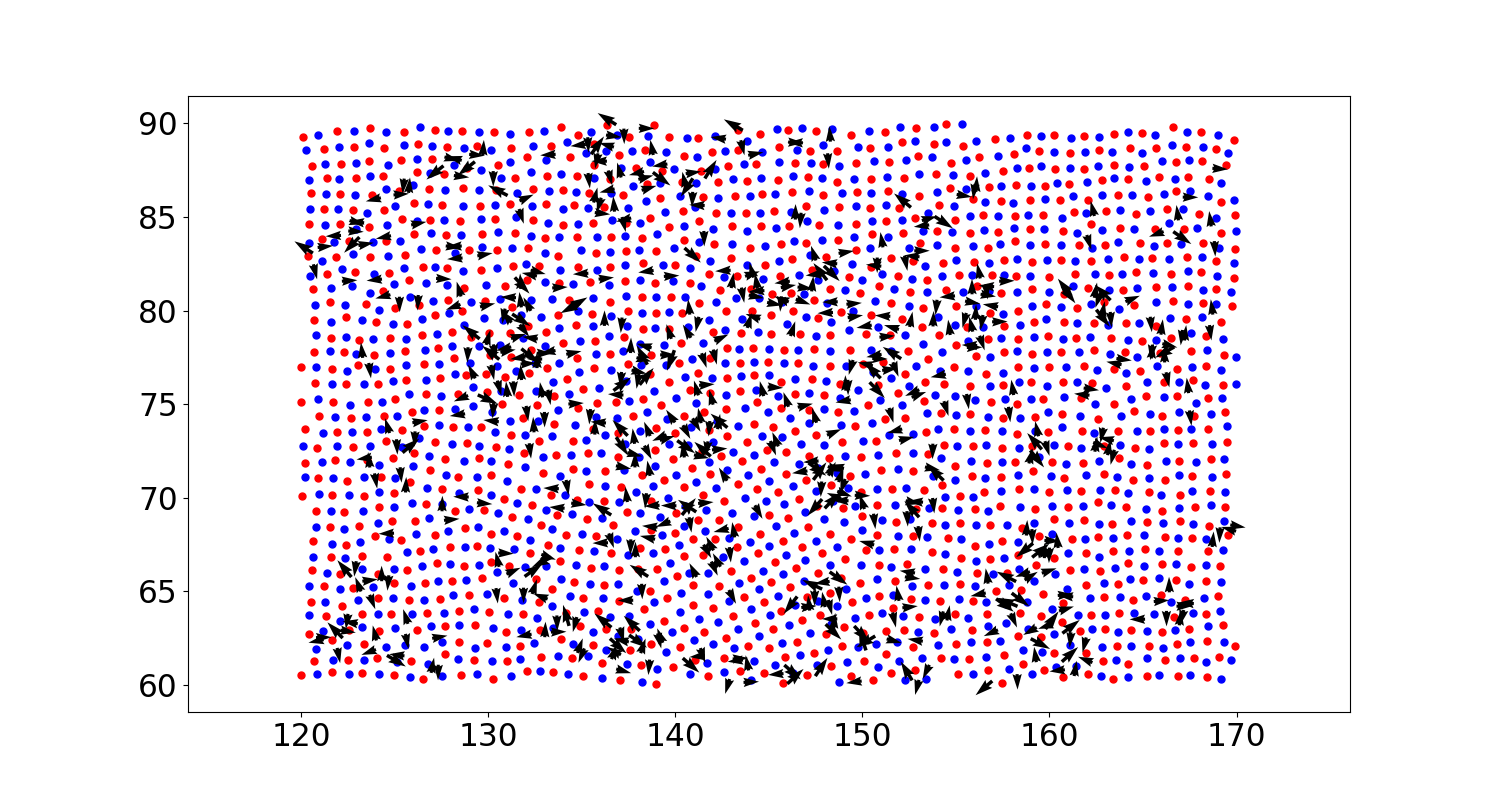
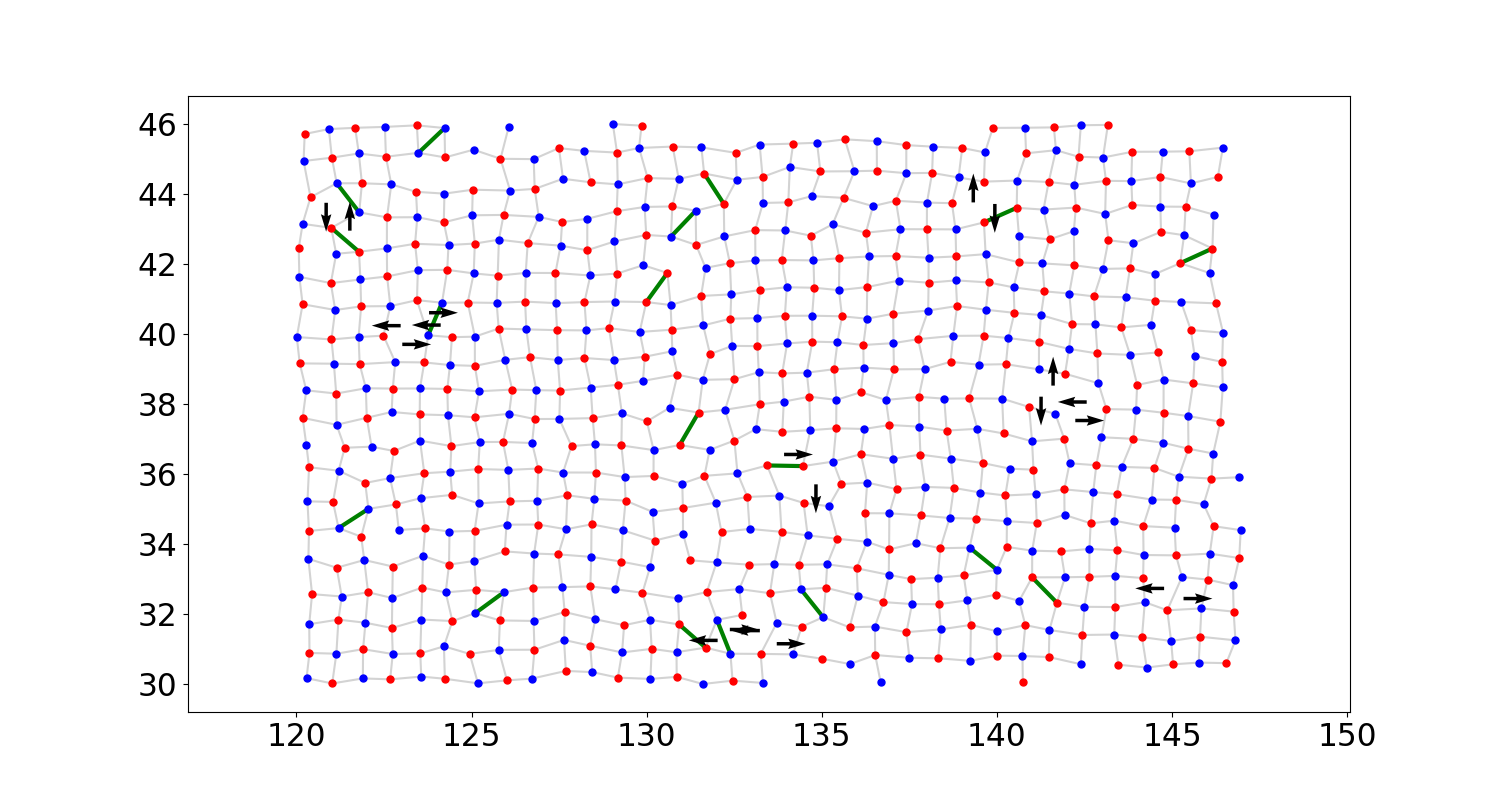
Added relevent options for plotting in rhoH=0.81 and searching for lines of frustration because it looked after cleaning that one of the clusters was maybe odd

diff --git a/create_all_graphs.py b/create_all_graphs.py
@@ -18,7 +18,7 @@ size = 30
 params = {'legend.fontsize': size * 0.75, 'figure.figsize': (10, 10), 'axes.labelsize': size, 'axes.titlesize': size,
           'xtick.labelsize': size * 0.75, 'ytick.labelsize': size * 0.75}
 plt.rcParams.update(params)
-colors_rho = {0.85: 'C0', 0.83: 'C1', 0.8: 'C2', 0.78: 'C3', 0.77: 'C4', 0.785: 'C5', 0.775: 'C6',
+colors_rho = {0.85: 'C0', 0.83: 'C1', 0.81: 'C2', 0.8: 'C2', 0.78: 'C3', 0.77: 'C4', 0.785: 'C5', 0.775: 'C6',
               0.75: 'C7'}
 
 
@@ -141,7 +141,7 @@ def plot_pos_and_orientation(rhos_pos, rhos_psi):
 
 
 def quiver_burger(rhoH, xlim, ylim, realization=None, bonds=False, frustrated_bonds=True, quiv=True,
-                  orientational_rad=None, *args, **kwargs):
+                  orientational_rad=None, plot_centers=True, quiv_surfix='', *args, **kwargs):
     plt.rcParams.update({'figure.figsize': (15, 8)})
     plt.figure()
     op_name = 'burger_vectors'
@@ -155,9 +155,10 @@ def quiver_burger(rhoH, xlim, ylim, realization=None, bonds=False, frustrated_bo
         realization = reals[0]
         file = files[0]
     else:
-        file = 'vec_' + str(realization) + '.txt'
+        file = 'vec_' + str(realization) + quiv_surfix + '.txt'
     spheres = np.loadtxt(join(sim, str(realization)))
-    if bonds:
+    any_bonds = bonds or frustrated_bonds
+    if any_bonds:
         op = Ising(sim_path=sim, k_nearest_neighbors=4, directed=False)
         op.update_centers(spheres, realization)
         spheres = op.spheres  # might reogranize order
@@ -168,7 +169,7 @@ def quiver_burger(rhoH, xlim, ylim, realization=None, bonds=False, frustrated_bo
         [(z_ > np.mean(z)) and xlim[0] < x_ < xlim[1] and ylim[0] < y_ < ylim[1] for (x_, y_, z_) in zip(x, y, z)])
     down = np.array(
         [(z_ <= np.mean(z)) and xlim[0] < x_ < xlim[1] and ylim[0] < y_ < ylim[1] for (x_, y_, z_) in zip(x, y, z)])
-    if bonds:
+    if any_bonds:
         op.initialize(random_initialization=False, J=-1)
         spins = op.z_spins
         for i in range(len(x)):
@@ -181,20 +182,23 @@ def quiver_burger(rhoH, xlim, ylim, realization=None, bonds=False, frustrated_bo
                     continue
                 if spins[i] * spins[j] > 0 and frustrated_bonds:
                     plt.plot(ex, ey, color='green', linewidth=3)
-                if spins[i] * spins[j] < 0:
+                if spins[i] * spins[j] < 0 and bonds:
                     plt.plot(ex, ey, color='lightgray')
-    # plt.plot(x[up], y[up], '.', color='orange', label='up', markersize=10)
-    plt.plot(x[up], y[up], '.r', label='up', markersize=10)
-    plt.plot(x[down], y[down], '.b', label='down', markersize=10)
-    plt.axis('equal')
-    # plt.legend()
+    if plot_centers:
+        # plt.plot(x[up], y[up], '.', color='orange', label='up', markersize=10)
+        plt.plot(x[up], y[up], '.r', label='up', markersize=10)
+        plt.plot(x[down], y[down], '.b', label='down', markersize=10)
     if quiv:
         burg = np.loadtxt(join(op_dir, file)) / 2
-        I_box = np.array(
-            [xlim[0] < x_ < xlim[1] and ylim[0] < y_ < ylim[1] for (x_, y_) in zip(burg[:, 0], burg[:, 1])])
-        burg = burg[I_box, :]
+        if len(xlim)>0 and len(ylim)>0:
+            I_box = np.array(
+                [xlim[0] < x_ < xlim[1] and ylim[0] < y_ < ylim[1] for (x_, y_) in zip(burg[:, 0], burg[:, 1])])
+            burg = burg[I_box, :]
         plt.quiver(burg[:, 0], burg[:, 1], burg[:, 2], burg[:, 3], angles='xy', scale_units='xy', scale=1,
                    label='Burger field', width=3e-3, zorder=7)  # headwidth=3)  # , headlength=10, headaxislength=6
+
+    plt.axis('equal')
+    # plt.legend()
     plt.savefig('graphs/burger_vectors')
     return
 
@@ -327,7 +331,7 @@ def quiver_cleaned_burgers(rhoH, realization=None, pair_cleans_iterations=1, cut
     if color_by_cluster:
         cluster_parity = plot_clustering(burg, algorithm=cluster_algorithm, rhoH=rhoH, **cluster_args)
         plt.figure()
-        plt.hist(cluster_parity, np.array(range(max(cluster_parity)+1)) + 0.5)
+        plt.hist(cluster_parity, np.array(range(max(cluster_parity) + 1)) + 0.5)
         plt.xlabel('$|\\vec{b}|^2$')
         plt.ylabel('Histogram for Burgers cluster sum')
         print(cluster_parity)
@@ -667,14 +671,14 @@ def coarse_grain_burgers(rhoH, xlim=[], ylim=[], realization=None, max_pair_clea
     cyc = lambda p1, p2: cyc_dist(p1, p2, [l_x / 2, l_y / 2])
     cluster_args['affinity'] = lambda X: pairwise_distances(X, metric=cyc)
     cluster_args['distance_threshold'] = distance_threshold
-    # for pair_cleans_iterations in range(max_pair_cleans_iterations + 1):
-    #     quiver_cleaned_burgers(rhoH, xlim=xlim, ylim=ylim, realization=realization,
-    #                            pair_cleans_iterations=pair_cleans_iterations, clean_by_cluster_flag=False)
+    for pair_cleans_iterations in range(max_pair_cleans_iterations + 1):
+        quiver_cleaned_burgers(rhoH, xlim=xlim, ylim=ylim, realization=realization,
+                               pair_cleans_iterations=pair_cleans_iterations, clean_by_cluster_flag=False)
     if clean_by_cluster_flag:
-        # burg = quiver_cleaned_burgers(rhoH, xlim=xlim, ylim=ylim, realization=realization,
-        #                               pair_cleans_iterations=max_pair_cleans_iterations, clean_by_cluster_flag=False)
-        # plot_clustering(burg, algorithm=cluster_algorithm, rhoH=rhoH, **cluster_args)
-        # plt.title('Clustering')
+        burg = quiver_cleaned_burgers(rhoH, xlim=xlim, ylim=ylim, realization=realization,
+                                      pair_cleans_iterations=max_pair_cleans_iterations, clean_by_cluster_flag=False)
+        plot_clustering(burg, algorithm=cluster_algorithm, rhoH=rhoH, **cluster_args)
+        plt.title('Clustering')
         quiver_cleaned_burgers(rhoH, xlim=xlim, ylim=ylim, realization=realization,
                                pair_cleans_iterations=max_pair_cleans_iterations,
                                clean_by_cluster_flag=True, cluster_algorithm=cluster_algorithm,
@@ -683,23 +687,24 @@ def coarse_grain_burgers(rhoH, xlim=[], ylim=[], realization=None, max_pair_clea
 
 
 if __name__ == "__main__":
-    # plot_pos_and_orientation([0.85, 0.83, 0.8], [0.8, 0.78, 0.77])
-    rhoH, realization = 0.81, 94363239  # 0.8, 64155333  # 92549977  #
-    # quiver_burger(rhoH, [85, 106.7], [126, 140.1], realization=realization, bonds=True, quiv=False)
-    # quiver_burger(rhoH, [120, 170], [60, 90], realization=realization, bonds=True, quiv=True)
-    xlim, ylim = [120, 170], [60, 90]
+    rhoH, realization = 0.81, 92347176  # 94363239  # 0.8, 64155333  # 92549977  #
+    # xlim, ylim = [120, 147], [30, 46]
+    xlim, ylim = [], []
+    quiver_burger(rhoH, xlim, ylim, realization=realization, bonds=False, quiv=True, plot_centers=False,
+                  quiv_surfix='_cluster-cleaned')
     # for rad in [None, 10, 5, 2, 0]:
     #     quiver_burger(rhoH, xlim, ylim, bonds=False, quiv=True, realization=realization, orientational_rad=rad)
-    coarse_grain_burgers(rhoH, realization=realization, distance_threshold=5, overwrite_cluster_clean=True,
-                         xlim=[0, 260], ylim=[0, 260], max_pair_cleans_iterations=0)
+    # coarse_grain_burgers(rhoH, realization=realization, distance_threshold=5, overwrite_cluster_clean=False,
+    #                      xlim=[0, 260], ylim=[0, 260])
 
-    # plot_ising([0.85, 0.8, 0.75], rhoH_anneal=0.8, plot_heat_capcity=True)
-
-    # plot_local_psi_hist([0.8, 0.785, 0.78, 0.775, 0.77])
-    # plot_magnetic_corr([0.85, 0.83, 0.8, 0.77])
-    # plot_bragg_peak(0.8)
-    # plot_annealing(0.8, real=45738368)
-    # plot_psi_convergence([0.83, 0.8, 0.78])
+    # plot_pos_and_orientation([0.85, 0.83, rhoH], [rhoH, 0.78, 0.77])
+    # plot_ising([0.85, rhoH, 0.75], rhoH_anneal=rhoH, plot_heat_capcity=True)
+    #
+    # plot_local_psi_hist([rhoH, 0.785, 0.78, 0.775, 0.77])
+    # plot_magnetic_corr([0.85, 0.83, rhoH, 0.77])
+    # plot_bragg_peak(rhoH)
+    # plot_annealing(rhoH, real=realization)
+    # plot_psi_convergence([0.83, rhoH, 0.78])
     print('Finished succesfully')
 #     TODO: recreate all graphs for rhoH=0.81, which looks much finer
 
